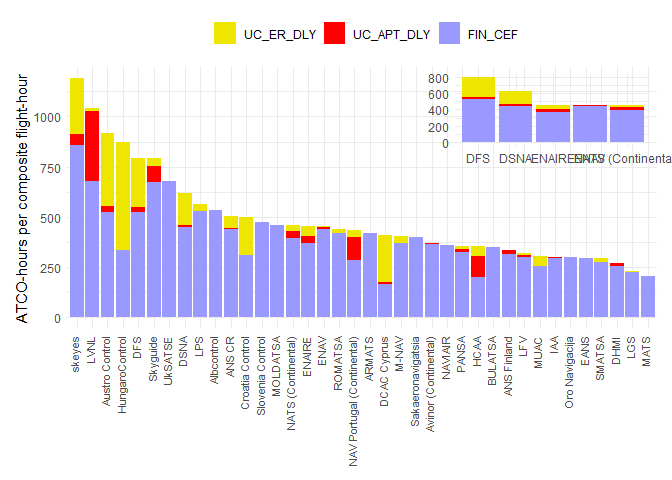
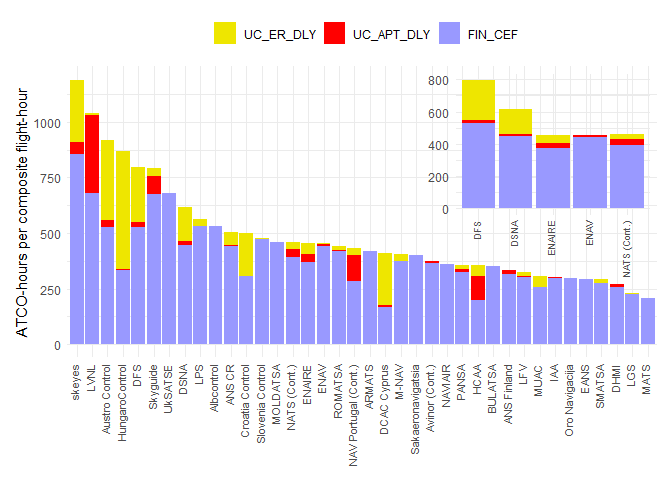
Continenatl is Cont.

diff --git a/JC_data_plot.md b/JC_data_plot.md
@@ -90,18 +90,21 @@ ds %>% mutate(ANSP2 = as.factor(ANSP_NAME))
 
 tmp <- ds %>% select (1:4) %>% 
   pivot_longer(cols = c("FIN_CEF","UC_ER_DLY","UC_APT_DLY"), names_to = "TYPE", values_to ="value") 
+
+# Change "Continental"  by "Cont" 
+tmp <- tmp %>% mutate(across(ANSP_NAME,~str_replace_all(ANSP_NAME,"Continental","Cont.")))
 ```
 
 Working now with tidy data
 
 ``` r
 # We plot now the tidy data
-# note the refactoring of the TYPE to change the ordering in the stacked bar
-# ddddddddd dddddd ddddd dd 
 vis1 <- tmp %>%
   ggplot()+
+# note the refactoring of the TYPE to change the ordering in the stacked bar
   aes(x=reorder(ANSP_NAME, -value), y = value, fill = factor(TYPE,levels=c("UC_ER_DLY", "UC_APT_DLY", "FIN_CEF")))+
   geom_col()+ 
+# This line changes the colour of the bars  
   scale_fill_manual(values = c("#eee600", "#ff0000", "#9999ff"))+
   ##geom_text(size=3, aes(label = round(Total, digits = 2)), angle = 90, vjust = +0.5, hjust = +1)+
   theme_minimal()+
@@ -116,18 +119,18 @@ vis1 <- tmp %>%
 Creating the inset graph
 
 ``` r
-largest5 <- tmp %>% filter(ANSP_NAME %in% c("DFS", "DSNA", "ENAV", "ENAIRE", "NATS (Continental)"))
+largest5 <- tmp %>% filter(ANSP_NAME %in% c("DFS", "DSNA", "ENAV", "ENAIRE", "NATS (Cont.)"))
 vis2 <- largest5 %>%
   ggplot()+
   aes(x=ANSP_NAME, y = value, fill = factor(TYPE,levels=c("UC_ER_DLY", "UC_APT_DLY", "FIN_CEF")))+
   geom_col()+
   scale_fill_manual(values = c("#eee600", "#ff0000", "#9999ff"))+
   theme_minimal()+
+  theme(axis.text.x = element_text(size=7, angle=90, hjust=1, vjust=0.2))+
   theme(legend.position="none")+
   labs(x=NULL, y=NULL)
 
-lb <- 0.6
-vis1 + inset_element(vis2, left = lb, bottom = lb, right = 1, top = 1)
+vis1 + inset_element(vis2, left = 0.6, bottom = 0.25, right = 1, top = 1)
 ```
 
 ![](JC_data_plot_files/figure-gfm/unnamed-chunk-4-1.png)<!-- -->
